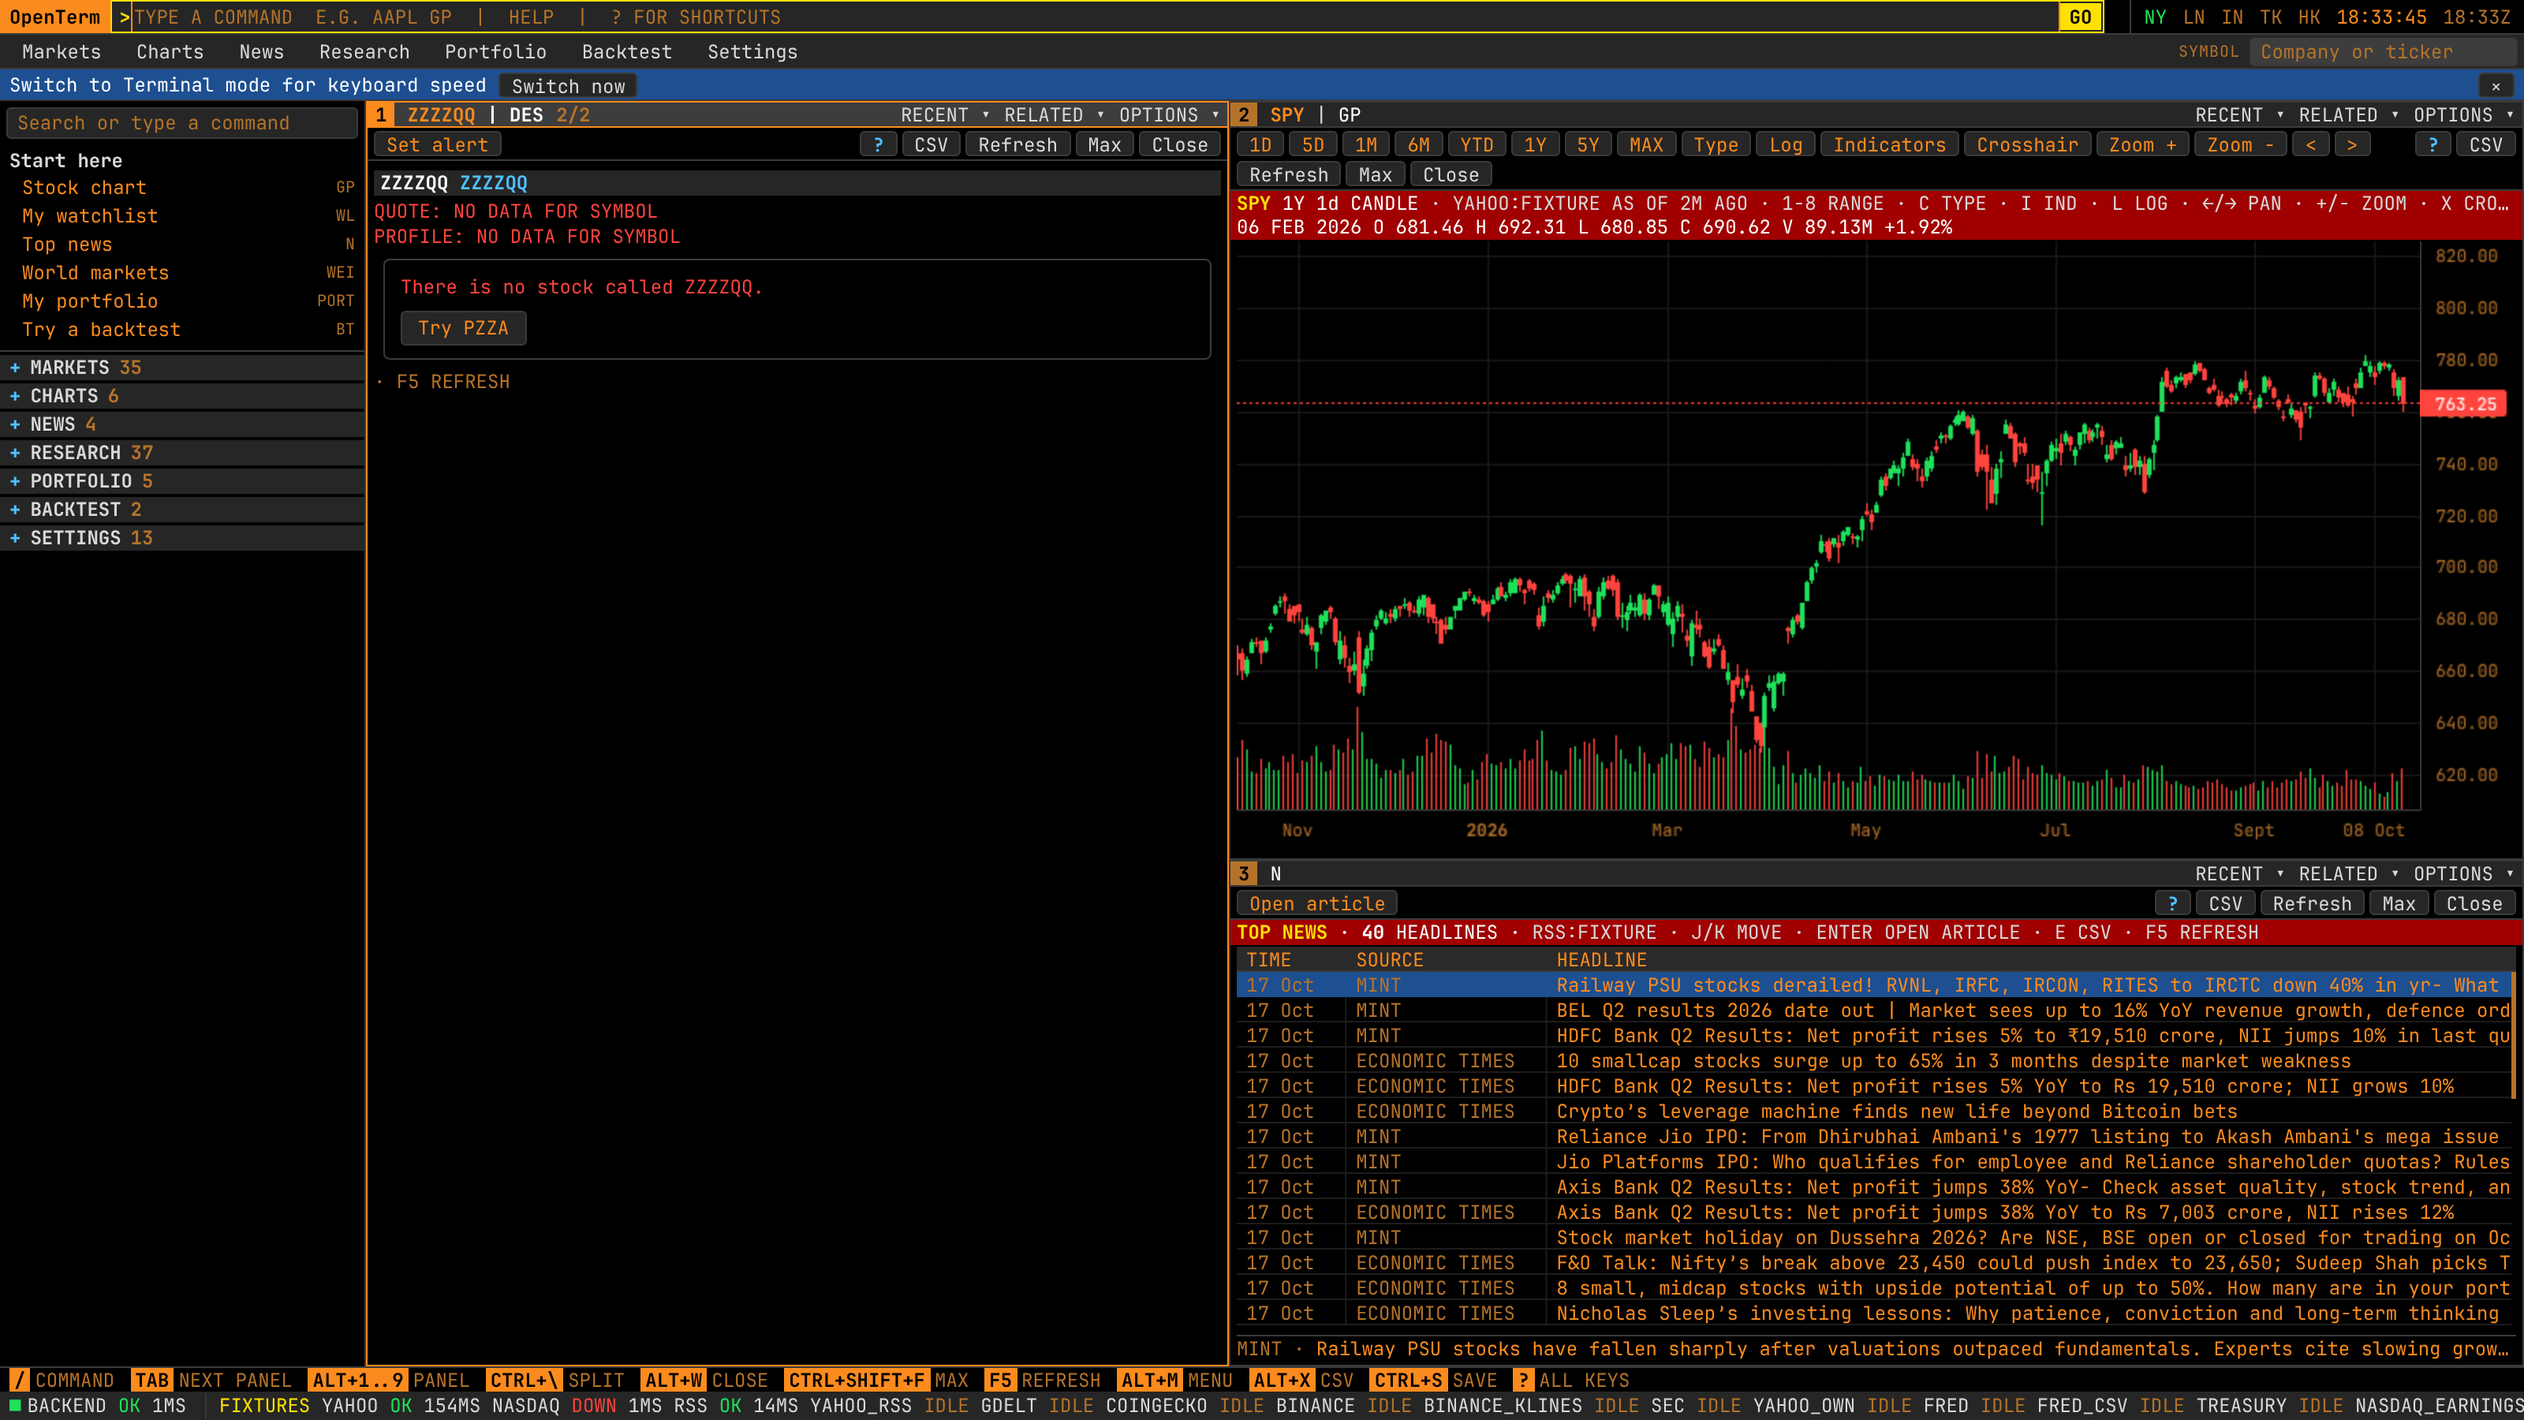
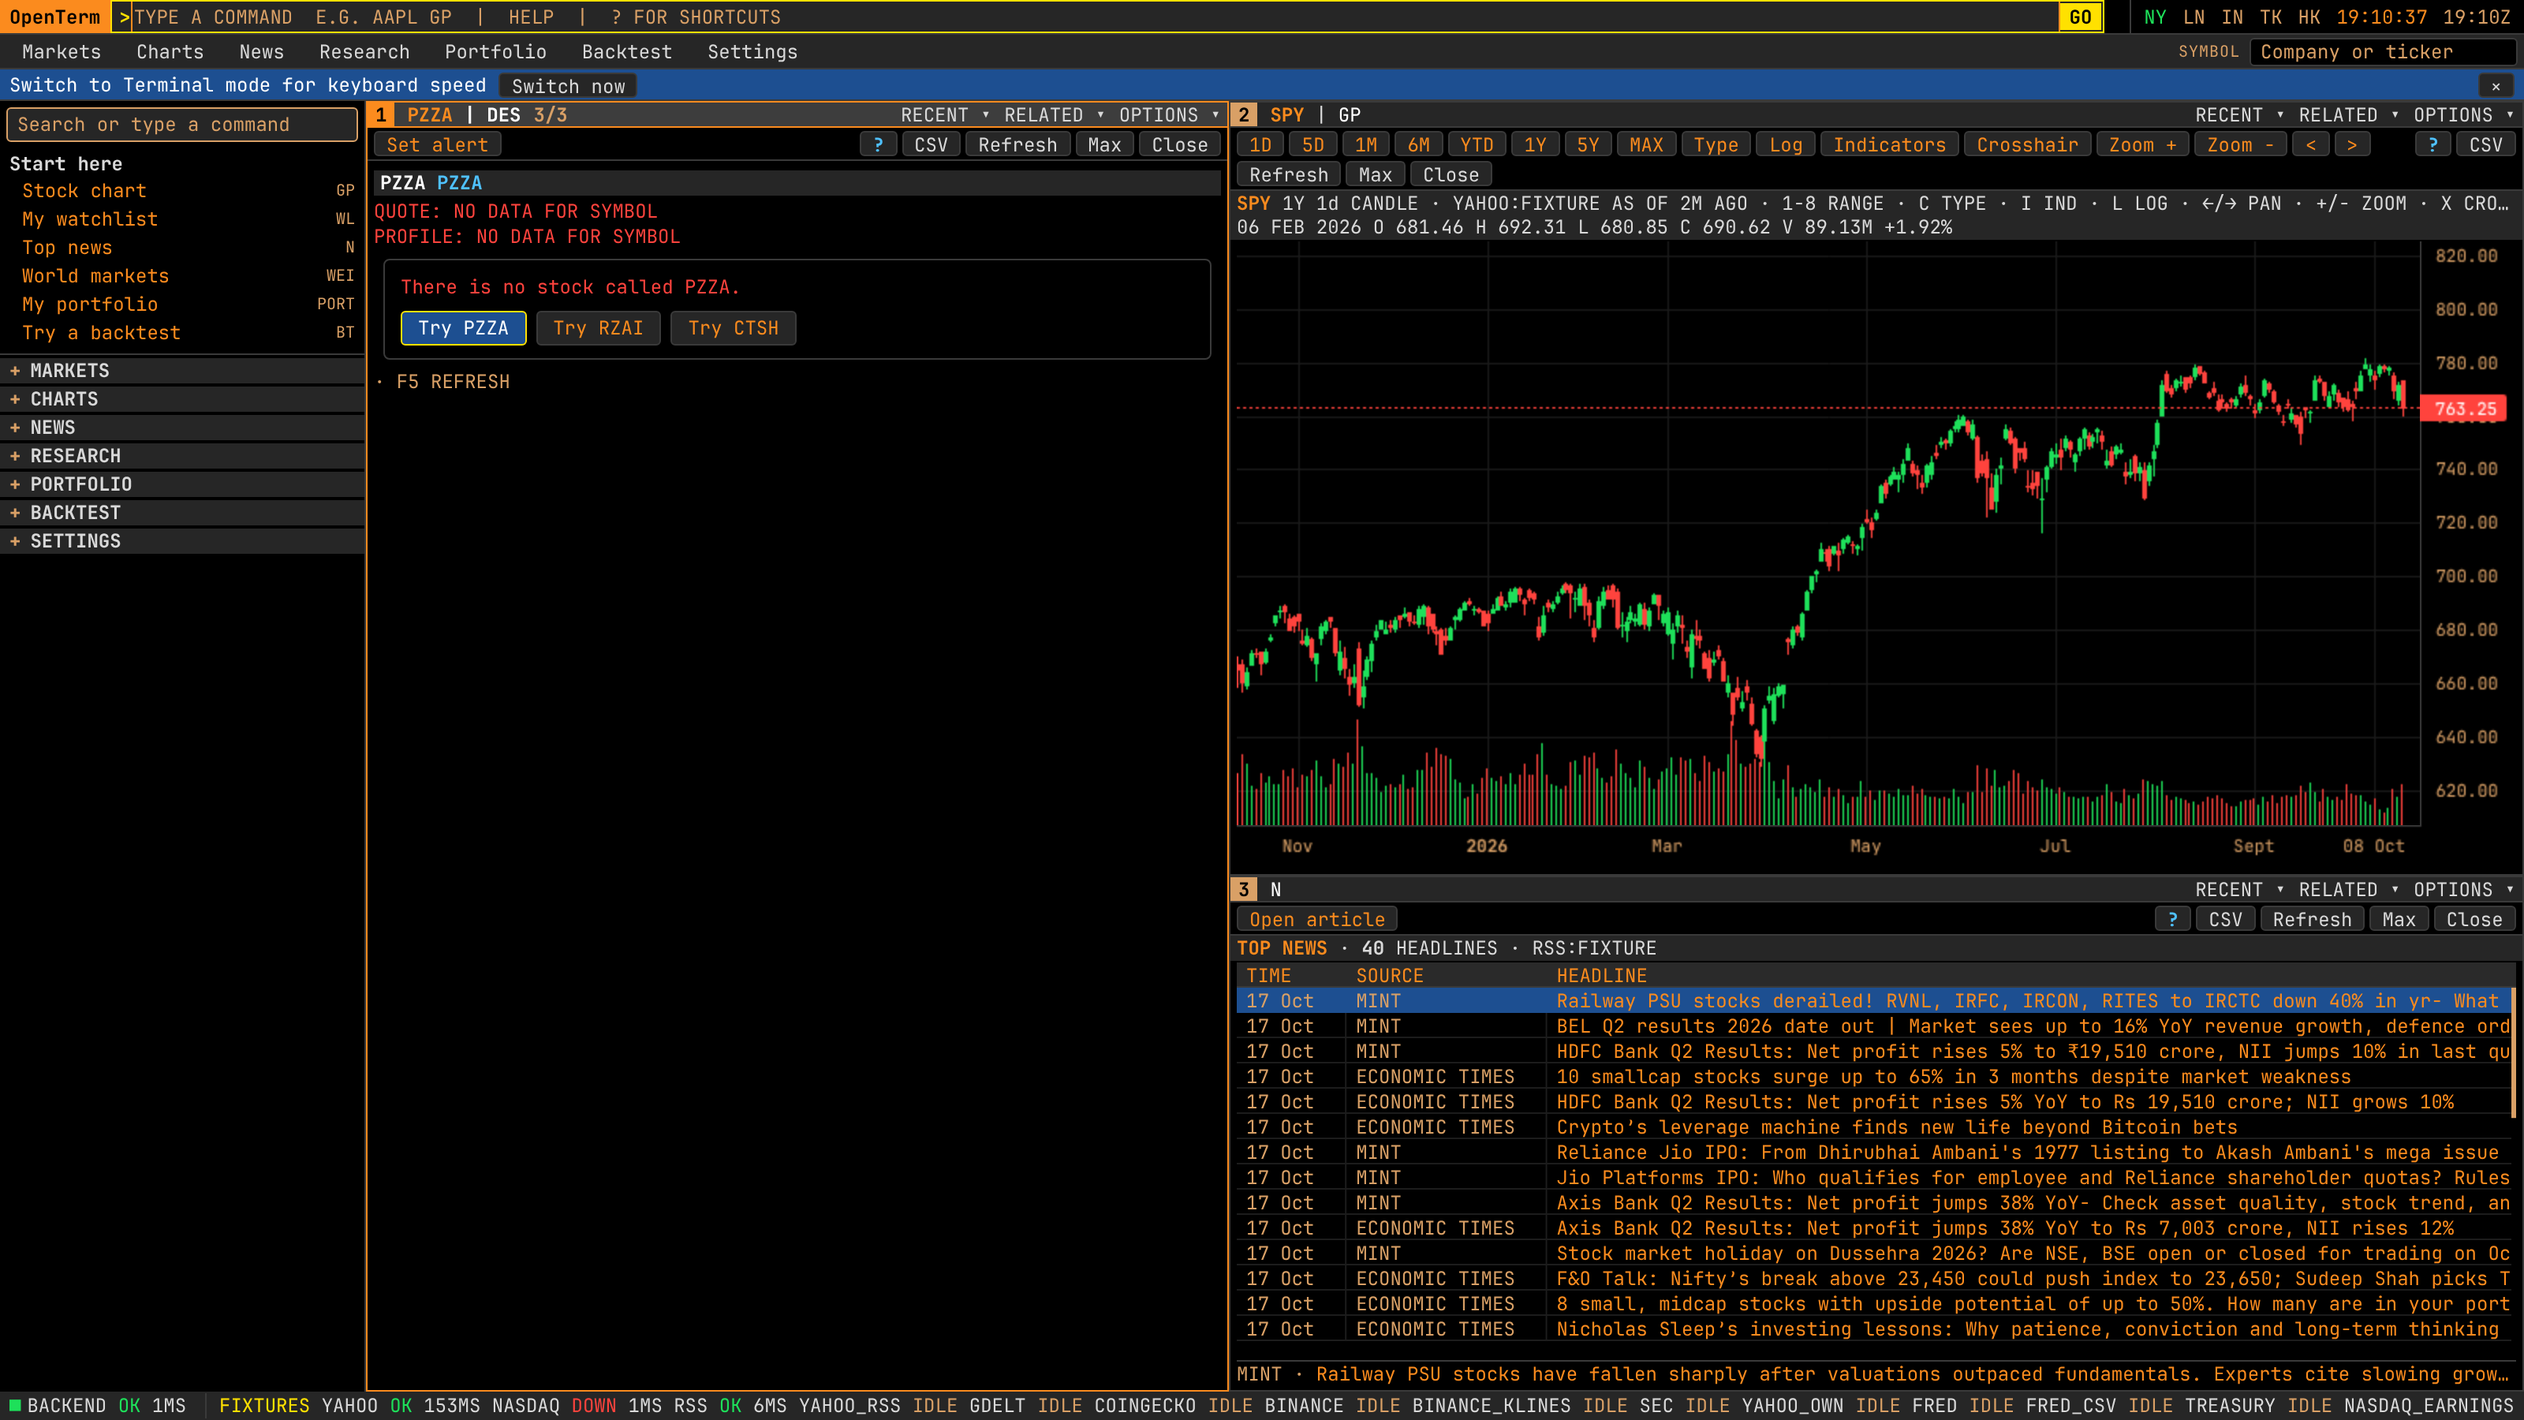
Part 5: README GUI section + final screenshots, PERFORMANCE before/after, HANDOFF resume, CLAUDE.md cloud facts
Claude-Session: https://claude.ai/code/session_01W4G2TKL3naRFnj4vyhL2Co

diff --git a/HANDOFF.md b/HANDOFF.md
@@ -5,15 +5,26 @@ _Last updated: 2026-10-19 (review sprint and terminal look merged to `main`). Ph
 > **Resuming in a new session or account?** Read "Resume here", "Where things stand" and "Next" below. Try the app with
 > `.\scripts\start.ps1`; [docs/COMMANDS.md](docs/COMMANDS.md) lists commands to try, [docs/FUNCTIONS.md](docs/FUNCTIONS.md) every function.
 
-## Resume here (cloud session 2026-11-04, branch `claude/gui-simple-bugs-sp3hq5`)
-Job: `docs/specs/GUI_SIMPLE_AND_BUGS.md` (Parts 0-5). Progress (newest last; each step committed + pushed):
-- Part 0 DONE: cloud baseline in `docs/PERFORMANCE.md` "Cloud baseline 2026-11-04" (gate green except a load-sensitive corrMath timing vitest; bench 36/37).
-- Part 1A DONE: `frontend/e2e/beginner.spec.ts` (10 mouse-only tasks, click counts); brief `docs/review/cloud/BEGINNER_CLICKS.md`.
-- Part 1B (a) DONE: tasks 1,2,4,5,9,10 pass (company search, Start here sidebar, glossary tooltip, PanelNote actions). Notes `docs/review/cloud/BUILD_1B_A.md`.
-- Part 1B (b) IN PROGRESS: tasks 3,6,7,8, starter layout, KeyRequiredLine, BT editor fill, live keybindings in tour/help, FA restyle (`docs/review/cloud/BUILD_1B_B.md` when done).
-- Part 2 backend DONE (`23fd1a2`, `docs/review/cloud/BACKEND_BUGS.md`); frontend bugs (AI/SWARM abort on close only, cmdhistory refetch, NSE rule holidays) IN PROGRESS (`docs/review/cloud/FRONTEND_BUGS.md`).
-- Next: 1C fresh-eyes screenshot critique, Part 3 audit, Part 4 terminal conventions, Part 5 wrap-up + draft PR.
-- Cloud box setup: `PLAYWRIGHT_BROWSERS_PATH` must point at a dir with `chromium_headless_shell-1248` symlinked to `/opt/pw-browsers/...-1243` (CLAUDE.md note). Commits labelled WIP are unreviewed checkpoints.
+## Resume here (cloud session 2026-11-04, branch `claude/gui-simple-bugs-sp3hq5`, draft PR to `main`)
+`docs/specs/GUI_SIMPLE_AND_BUGS.md` Parts 0-5 are DONE on the branch (not merged; the user reviews the draft PR). Last gate: ALL PASS
+(pytest 1726, vitest 586, e2e 245). Bench vs the cloud baseline: `docs/PERFORMANCE.md` "Cloud session end 2026-11-04". Commits labelled WIP are
+unreviewed checkpoints; the reviewed step commit follows each one.
+- **Part 0:** cloud baseline (`docs/PERFORMANCE.md` "Cloud baseline 2026-11-04").
+- **Part 1 (beginner GUI):** `frontend/e2e/beginner.spec.ts` = 10 mouse-only tasks, all pass in <= 4 clicks with no function code typed
+  (before: 4 possible by mouse, 6 impossible; brief `docs/review/cloud/BEGINNER_CLICKS.md`). Built: company-name search (`gui/companySearch.ts`, `useCompanies.ts`;
+  screener universe + `/api/search`), sidebar "Start here", glossary (`gui/glossary.ts`, `glossaryTip.ts`, `data-term`), `PanelNote` `plain`/`actions`/`onRetry`,
+  empty states with "Add a stock"/"Add an alert" (`gui/askBus.ts`), BT starter templates (`functions/BtStarter.tsx`), starter layout for new GUI users
+  (`gui/starterLayout.ts`), `KeyNeeded` with "Open API keys", BT editor fills its panel, live keybindings in tour/help (`gui/purposes.ts`), FA GUI look,
+  fresh-eyes critique fixes (`docs/review/cloud/GUI_CRITIQUE.md`, incl. `functions/QuoteErrors.tsx`, `alertPlain.ts`). Notes: `BUILD_1B_A.md`, `BUILD_1B_B.md`.
+- **Part 2 (known bugs):** all fixed with tests (`docs/review/cloud/BACKEND_BUGS.md`, `FRONTEND_BUGS.md`; DONE marks in `docs/review/DECISIONS_FOR_USER.md`).
+- **Part 3 (audit):** `docs/review/cloud/AUDIT.md`: 0 high, 3 medium (all confirmed and fixed: SEAS exchange-local dates, alert trigger retry, Yahoo real granularity), 9 low deferred in DECISIONS_FOR_USER.md.
+- **Part 4 (Terminal conventions):** sector words after the ticker (`command/sectors.ts`), digits + Enter opens a grid row (`keys/numberSelect.ts`), F2/F3/F4/F8/F9 (+Shift+F9) sector keys,
+  Alt+Backspace back, `FUNC` directory (aliases MENU, DIR), aliases WCRS->FXC, MOST->MOV, PRTU->PORT. `docs/review/cloud/PART4.md`.
+- **Never verified:** the GUI on a real (non-fixture) Yahoo session; Retry is wired on DES, GP and quote grids only; canvas grid column headers have no glossary tooltip;
+  number-select does not cover DOM lists; the GUI-mode collapsed top command line relies on Ctrl+K (covered by gui-shell e2e).
+- **Decisions left to the user:** the four "confirm or revert" items and the DLVR `DESKTOP` toggle (DECISIONS_FOR_USER.md, untouched); the 9 low audit items;
+  startup bundle is 125.8 KB gz (+5.8 KB: GUI +4.2 within its 5 KB cap, Part 4 +1.6 KB); NSE holidays cover fixed dates + Good Friday only (festivals not computable by rule; the UI says so).
+- **Next:** user reviews the draft PR; merge; optional real-data screenshot pass; items in DECISIONS_FOR_USER.md.
 
 ## Resume here (updated 2026-11-03)
 **Current state in one place:** `origin/main` = `96ed188` plus this docs commit. Everything in `docs/specs/NEXT_SESSION.md` is done and on `main`: GUI mode (Part 1),

diff --git a/CLAUDE.md b/CLAUDE.md
@@ -3,7 +3,7 @@
 Keyboard-first, open-source market terminal (amber on black, command line + tiled panels).
 The full spec is the "SUPER PROMPT" the user gave in the first session. Its build plan, budgets and rules
 are summarized in [HANDOFF.md](HANDOFF.md). Read HANDOFF.md first: it says what is done and what is next.
-Phases 1-17 and 19, GUI mode and the strategy editor are DONE and on `main` (origin = GitHub repo ImTheRealARB/OpenTerm, now public; last full gate 2026-11-03: pytest 1708, e2e 226; bench misses on this busy machine match the base commit, see `docs/PERFORMANCE.md`). Open items and what is next: HANDOFF.md "Resume here". **Phase 18 (brokers/orders) stays PAUSED.** Phases 6-10 were built in parallel worktrees (since removed): see HANDOFF.md
+Phases 1-17 and 19, GUI mode and the strategy editor are DONE and on `main`; the beginner-GUI / bugs / audit / terminal-conventions job (`docs/specs/GUI_SIMPLE_AND_BUGS.md`) is DONE on branch `claude/gui-simple-bugs-sp3hq5` (draft PR) (origin = GitHub repo ImTheRealARB/OpenTerm, now public; last full gate 2026-11-03: pytest 1708, e2e 226; bench misses on this busy machine match the base commit, see `docs/PERFORMANCE.md`). Open items and what is next: HANDOFF.md "Resume here". **Phase 18 (brokers/orders) stays PAUSED.** Phases 6-10 were built in parallel worktrees (since removed): see HANDOFF.md
 "How Phases 6-10 were built" and [docs/PARALLEL_BUILD.md](docs/PARALLEL_BUILD.md) if a parallel build is ever repeated.
 **Usage rule:** Opus may orchestrate (plan, review, run gates) with at most 2 Sonnet subagents building; Opus does not build large
 changes itself (decided 2026-11-02, `docs/specs/NEXT_SESSION.md`; replaces the 2026-10-19 "Sonnet only" rule). Subagents are Sonnet. Agents are allowed (at most 2 at a time) but run targeted tests only; the main session runs the full gates once per step (output tail only).
@@ -226,6 +226,14 @@ stream), `OPENTERM_FIXTURE_LATENCY_MS`, `OPENTERM_DB_PATH`.
   `keys._smtp_check`). Brief: `brief.py` + `brief_routes.py`, kv `brief:last`, apscheduler job id `brief` (`scheduler.schedule_brief`, rescheduled on `PUT /api/delivery`). Desktop notifications were
   already in `command/alerts.ts` (`desktopNotify`, gated by browser permission only). Panels `DLVR`, `BRIEF`. In fixture mode the brief's earnings section shows ERR (no recording for today).
 - **Bench baselines on Windows:** a worktree under the scratchpad path breaks Python DLL loads (path too long: `httptools` ImportError). Put a baseline worktree at a short path such as `C:\otbase`.
+
+- **Cloud session facts (2026-11-04):** on a 4-vCPU Linux box run the gate as `node scripts/gates.mjs --e2e-last` (timing tests in vitest/pytest flake
+  when every suite runs at once; they pass alone). `bench.mjs` now spawns servers `detached` and refuses to start if 8000/4173 already answer (a leaked backend
+  made every second run fail with "served from the cache"). Leftover servers: `ps -eo pid,cmd | grep -E "python3 -m openterm|vite preview"`.
+- **Beginner suite:** `frontend/e2e/beginner.spec.ts` asserts <= 4 clicks per task in GUI mode; keep it green when changing the GUI. Glossary terms (`data-term`) must
+  have an entry in `gui/glossary.ts` (vitest scans the source). `PanelNote` takes `plain`, `actions`, `onRetry` (GUI only). New GUI user = starter layout (`gui/starterLayout.ts`).
+- **Intl.DateTimeFormat per bar is slow** (~4 us): SEAS went 12 -> 46 ms on 10k bars. Keep a UTC fast path when there is no exchange zone (`seasMath.localDay`).
+- **Terminal grammar:** a sector word after the ticker maps symbols (`command/sectors.ts`); CORP / unmapped GOVT is an error. F5/F11/F12 stay unbound (browser).
 
 ## Conventions
 - **Keep `docs/FUNCTIONS.md` current:** after any change to `functions/registry.ts`, `keys/keybindings.json` or `keys/keys.ts` labels (or the doc template in `scripts/gen_functions_doc.py`), run `python scripts/gen_functions_doc.py` before committing. `test_functions_doc.py` (pytest, so the gates) fails on a stale doc.

diff --git a/README.md b/README.md
@@ -163,16 +163,24 @@ The Docker files are written but have not been built by the author yet.
 
 ### Two ways to use it: GUI mode and Terminal mode
 
-The first time you open OpenTerm it starts in **GUI mode**: a menu bar (Markets, Charts, News, Research, Portfolio,
-Backtest, Settings), a sidebar listing every function with a search box, a symbol box, and a row of buttons on each panel.
-A welcome card offers three starting points ("Look up a stock", "See a chart", "Watch my stocks") and a 2-minute tour.
-Click the `?` button on any panel (or press `Alt+H`) for a help drawer that explains it.
+The first time you open OpenTerm it starts in **GUI mode**, made for people who have never used a market terminal.
+You start on a ready-made screen (a few large US stocks, a chart and top news). The sidebar's **Start here** group has
+plain-word buttons (Stock chart, My watchlist, Top news, World markets, My portfolio, Try a backtest); every other
+function sits in a collapsed category, with its short code shown small and grey as a learning aid.
+Type a company name ("apple", "tesla") in the symbol box and pick a suggestion. Hover over, or tab to, a term such as
+EPS or P/E for a one-line plain-English explanation. Errors say what to do next (Retry, "Try AAPL", "Open API keys"),
+and empty lists offer the next step ("Add a stock"). Click `?` on any panel (or press `Alt+H`) for its purpose, buttons and keys.
+
+| | |
+|---|---|
+| ![GUI mode: starter screen with Start here sidebar](docs/screenshots/gui-first-screen.png) | ![Search by company name](docs/screenshots/gui-search.png) |
+| ![Plain-English glossary tooltip](docs/screenshots/gui-glossary.png) | ![An error with a next step](docs/screenshots/gui-error-next-step.png) |
 
 **Terminal mode** is the same app with only the command line, built for keyboard speed. Switch with the
 `TERMINAL | GUI` control at the bottom right, `Alt+G`, or `SETTINGS MODE TERMINAL`. Your choice is saved. Everything
-below works in both modes.
+below works in both modes. Terminal mode also takes a market sector word after the ticker (`SPX INDEX GP`,
+`EURUSD CURNCY`), digits + Enter to open a row in a list, F2/F3/F4/F8/F9 as sector keys, and `FUNC` lists every function.
 
-![GUI mode](docs/screenshots/gui-mode.png)
 
 ### Try these commands
 

diff --git a/docs/PERFORMANCE.md b/docs/PERFORMANCE.md
@@ -636,3 +636,18 @@ Bench run 1: 36/37 (miss: BT result open to first paint). Runs 2 and 3 crashed i
 | IMAP treemap layout, 5,000 tiles p95 | 5.2 ms | 30 ms | PASS |
 | SECF fuzzy rank, 7,000 names, per query p95 | 11.9 ms | 25 ms | PASS |
 | IMAP canvas paint, 5,000 tiles p95 | 9.4 ms | 16 ms | PASS |
+
+## Cloud session end 2026-11-04 (after Parts 1-4, same box as the cloud baseline)
+
+Gate: ALL PASS (pytest 1726, vitest 586, e2e 245; `node scripts/gates.mjs --keep-going --e2e-last`).
+Bench, 6 runs after the work (the second run no longer crashes: the bench killed only the shell, so its backend stayed on port 8000 and the next run reused it).
+
+| Line | Baseline | After (range of runs) | Budget | Note |
+|---|---|---|---|---|
+| Initial JS+CSS bundle (gzip) | 120.0 KB | 125.8 KB | 400 KB | +5.8 KB: GUI Part 1 about +4.2 KB (cap 5 KB), Part 4 terminal conventions +1.6 KB |
+| BT result open to first paint p95 | 133.4 ms | 121-151 ms (p50 96-107) | 100 ms | failed on the baseline too |
+| SEAS MONTH+WOY+DOM 10,000 bars p95 | 12.2 ms | 15.5-22 ms (46 ms before the fix) | 15 ms | the time-zone fix used Intl per bar (46 ms); UTC fast path restores it. Side-by-side in vitest old 7.9 ms vs new 7.7 ms median, so what is left is one-shot noise |
+| BT 10-year rule run p95 | 293.9 ms | one run 343.5 ms, others pass | 300 ms | known throttling line (CLAUDE.md) |
+| 50k-bar chart pan/zoom frame p95 | 16.8 ms | one run 33.3 ms, others pass | 20 ms | known lone-miss line (CLAUDE.md) |
+
+Every other line passed in every run, within noise of the baseline.
